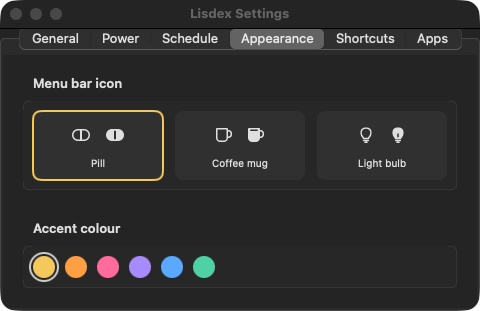
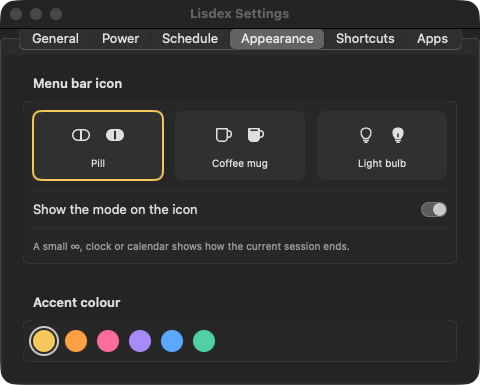
docs: mode badge records

diff --git a/.context/status/current.md b/.context/status/current.md
@@ -4,6 +4,7 @@ _Last updated 2026-11-24._
 
 ## Done
 
+- 2026-11-24 **Phase 11.1 Mode badge** (branch `feat/mode-badge`): Settings → Appearance → "Show the mode on the icon" (off by default) badges the menu bar icon with ∞ / clock / calendar for how the current session ends (approach A, ADR 0025, spec `specs/menu-bar-mode-badge.md`). Figma pill badges rebuilt on the shipped 20 × 18 pill; 18 SVGs exported to `assets/menubar/`. Core `MenuBarBadge.resolve`, `AppSettings.showsModeBadge`, `MenuBarAssetTests` (161 tests). Evidence `evidence/2026-11-24-mode-badge/`.
 - 2026-11-24 **Release prep 1.2.0** (branch `chore/release-1.2.0`; owner: Phases 8 + 9 ship together as 1.2.0): `scripts/e2e.sh` + `make e2e` + E2E workflow on `macos-latest` (links, timed session, kill -9 with both engines, schedule window, app trigger, settings persistence, all via `pmset`; 9/9 locally); manual checklist `runbooks/manual-test.md` for what CI can't do (jiggler, Shortcuts/Focus, clicks); README screenshots retaken (+ Schedule, Apps tabs; Power with Chat apps; per-day menu; light bulb) and feature rows for shortcuts / Option-click.
 - 2026-11-23 **Phase 8.3 Shortcuts, Focus filter and links** (owner said merge 2026-11-24 without a GUI test of actions/Focus; merged): `lisdex://` links in every build; App Intents actions + `SetFocusFilterIntent` when built with `CODESIGN_IDENTITY` (ad-hoc builds can't run App Intents — spike 2026-11-23, ADR 0022, spec `specs/shortcuts-focus.md`). Core `KeepAwakeCommand`, `FocusRules`, `Session.Origin.focus` (135 tests; review fixes: cold-launch links, Focus sync at launch, app/Focus hand-over, links never change saved settings). Evidence `evidence/2026-11-23-shortcuts-focus/`.
 - 2026-11-23 **Build without Xcode** (owner said merge 2026-11-24; merged): Command Line Tools builds failed since v1.0 (`@Entry` needs `libSwiftUIMacros`, which only Xcode ships) and on the macOS 27 SDK `@State` is a macro too. Replaced `@Entry` with an `EnvironmentKey`; `build-app.sh` falls back to the newest macOS 26 SDK when the plugin is missing (ADR 0023). Verified: CLT-only Homebrew-style build passes; Xcode build unchanged.
@@ -64,7 +65,7 @@ _Last updated 2026-11-24._
 | **8. v1.2 — triggers** (ships in 1.2.0) | Keep awake while app X runs (app picker, `NSWorkspace` launch/quit) — ✅ merged 2026-11-23; per-day schedule hours — ✅ merged 2026-11-23; Shortcuts / Focus filter / links — ✅ merged 2026-11-24. | — |
 | **9. mouse jiggler** (ships in 1.2.0, not 1.3) | Post a 0 px mouse move (ADR 0024; roadmap said 2 px and back) after an idle threshold (default 60 s), repeat every jiggle interval (default 20 s), stop on any real input incl. held keys/buttons. Runs **only while Keep Awake is holding**. Settings: idle threshold + jiggle interval sliders (no polling-interval setting: one timer computed from system idle time). Needs Accessibility (post-event) permission — new ADR; spike first: TCC grant across ad-hoc rebuilds / `brew upgrade`, and whether synthetic moves reset HID idle time. | Spiked 2026-11-24 (0 px moves work; ad-hoc rebuilds lose the grant). ✅ merged 2026-11-24 (ADR 0024, spec `mouse-jiggler.md`). Not run live yet: the owner merged before granting the permission. |
 | **10. v1.2.x — fixes from reviews** (proposed) | Jiggler: notice a revoked permission while running; the menu warning asks macOS first, then opens the pane; stop the 2 s permission recheck when Settings closes; don't restart the jiggler on every slider step. Focus/Shortcuts: filter switch defaults to on; a Focus ending that launches Lisdex doesn't trigger Activate on launch; Turn On rejects minutes ≤ 0 and its summary shows minutes as optional; links reject odd forms (`minutes=090`, extra parameters); ignored links logged privately. Schedule: Settings… opens on the tab already shown; one bad day in saved settings drops only that day; the menu summary fits on one line. Build: a failed App Intents metadata step leaves no half-written files; no hard-coded macOS 14 / host architecture. | Each with a test (Core) or a manual check; `make e2e` green. |
-| **11. v1.3 — features** (proposed, owner to pick) | Answer the open questions below (app trigger while a schedule waits; "armed" icon). Several windows per day. Closed-lid mode on power. Keep awake while a download or CPU-heavy work runs. | Owner picks the scope. |
+| **11. v1.3 — features** (proposed, owner to pick) | Mode badge on the menu bar icon (owner, Figma 33:1825) — built 2026-11-24, ADR 0025. Answer the open questions below (app trigger while a schedule waits; "armed" icon). Several windows per day. Closed-lid mode on power. Keep awake while a download or CPU-heavy work runs. | Owner picks the scope. |
 
 ## Next
 

diff --git a/.context/decisions/0025-mode-badge.md b/.context/decisions/0025-mode-badge.md
@@ -1,0 +1,37 @@
+# ADR 0025 — Mode badge on the menu bar icon: static glyphs, badge = how the session ends
+
+- **Status:** Accepted (owner approved spec `menu-bar-mode-badge.md`, 2026-11-24)
+- **Date:** 2026-11-24
+
+## Context
+
+The owner drew badged menu bar icons in Figma (file `iOdc61NkCgOdETvPC2vnn8`, frame 33:1825,
+component set 33:1492): pill, coffee mug and light bulb with an ∞, clock or calendar badge, in
+the outlined and filled states. The badge is cut out of the base artwork with a 0.75 pt moat, so
+it adapts to light, dark and highlighted menu bars. Many sessions don't follow the selected mode
+(Option-click quick menu, `lisdex://on?minutes=`, Shortcuts, app and Focus sessions).
+
+## Decision
+
+- Optional: Settings → Appearance → "Show the mode on the icon", off by default
+  (`AppSettings.showsModeBadge`; settings without the key read as off).
+- The badge shows **how the current session ends** (approach A): a running session's badge comes
+  from the session (app/Focus and until-stopped links → ∞, a link/action with minutes → clock,
+  otherwise the selected mode); while off, the selected mode. `MenuBarBadge.resolve` (Core, tested).
+- 18 static template glyphs in `assets/menubar/<variant>-<badge>-<state>.svg`, exported from the
+  component set and rendered by `make icons` (ADR 0003). The pill keeps the shipped 20 × 18 pt
+  artwork in every variant (Figma updated 2026-11-24), so turning badges on never changes the
+  icon's width; mug and bulb stay 18 × 18.
+- The menu's icon tile and the Settings icon picker stay unbadged; the jiggler never changes the
+  icon. VoiceOver: "Lisdex — Keep Awake on, for a duration".
+
+## Rejected
+
+- Drawing the badge over the base icon at runtime: the moat is cut out of the base, and ADR 0003
+  keeps menu bar art in SVG sources.
+- Badge = selected mode always (approach B): a 15-minute quick-menu session would show ∞.
+
+## Consequences
+
+New badges or icon variants need SVGs for every state; `MenuBarAssetTests` fails if one is
+missing, if a badged canvas differs from the plain one, or if art isn't black + alpha.

diff --git a/README.md b/README.md
@@ -31,7 +31,7 @@ Lisdex does one thing: stop your Mac from going to sleep. It's small enough to r
 
 | | |
 | --- | --- |
-| <img src="assets/menubar/pill-inactive@3x.png" height="18" alt=""> → <img src="assets/menubar/pill-active@3x.png" height="18" alt=""> | **Menu bar only.** No Dock icon. A capsule pill, outlined when inactive and filled when active. Prefer a coffee mug or a light bulb? It's one setting away. |
+| <img src="assets/menubar/pill-inactive@3x.png" height="18" alt=""> → <img src="assets/menubar/pill-active@3x.png" height="18" alt=""> | **Menu bar only.** No Dock icon. A capsule pill, outlined when inactive and filled when active. Prefer a coffee mug or a light bulb? It's one setting away, and an optional badge (∞, clock or calendar) shows how the current session ends. |
 | ∞ | **Indefinitely.** Stay awake until you turn it off. |
 | ◷ | **For a duration.** 15 min, 30 min, 1 h, 2 h or a custom time. |
 | ▦ | **On a schedule.** Choose days and hours, e.g. weekdays 09:00–18:00 with a short Friday. |
@@ -56,7 +56,7 @@ Lisdex does one thing: stop your Mac from going to sleep. It's small enough to r
 </p>
 <p align="center">
   <img src="assets/screenshots/settings-apps.png" width="48%" alt="Settings, Apps tab: Xcode and Visual Studio Code keep the Mac awake while open">
-  <img src="assets/screenshots/settings-appearance.png" width="48%" alt="Settings, Appearance tab: pill, coffee mug or light bulb menu bar icon and accent colours">
+  <img src="assets/screenshots/settings-appearance.png" width="48%" alt="Settings, Appearance tab: pill, coffee mug or light bulb menu bar icon, the mode badge switch and accent colours">
 </p>
 
 ### How it keeps your Mac awake

diff --git a/.context/evidence/2026-11-24-mode-badge/notes.md b/.context/evidence/2026-11-24-mode-badge/notes.md
@@ -1,0 +1,27 @@
+# Mode badge — verification, 2026-11-24
+
+- `swift test`: 161 tests in 27 suites pass (new: `MenuBarBadge`, `Menu bar assets`, badged
+  `MenuBarIcon` names/labels, `AppSettings` mode badge default / round-trip / 1.2 settings).
+- `make e2e`: 9/9.
+- Figma: pill badge variants rebuilt on 20 × 18 from the shipped pill; SVGs exported with the
+  plugin `exportAsync` (the REST export adds background rectangles). Contact sheet of all 24
+  glyphs checked by eye.
+- Status item, by `log stream` of the debug line "Menu bar icon <resource>" (status-item windows
+  can't be captured with `screencapture -l`), badge switch on:
+
+| Scenario | Icon |
+| --- | --- |
+| off, mode Duration | `pill-duration-inactive` |
+| on (Duration) | `pill-duration-active` |
+| `lisdex://on?until=stopped` | `pill-indefinitely-active` |
+| mug, mode Indefinitely, `on?minutes=90` | `mug-duration-active` |
+| mug off, Indefinitely | `mug-indefinitely-inactive` |
+| bulb off, Schedule | `bulb-schedule-inactive` |
+| TextEdit (listed app) opens | `bulb-indefinitely-active` |
+| TextEdit quits | `bulb-schedule-inactive` |
+| `on`, schedule waiting outside its window | `bulb-schedule-inactive` |
+| 1.2 settings (no key), on | `pill-active` |
+
+- Settings → Appearance: switch + caption under the icon picker (screenshot in
+  `assets/screenshots/settings-appearance.png`).
+- Owner to check: the icons in light and dark menu bars.

diff --git a/.context/specs/lisdex-v1.md b/.context/specs/lisdex-v1.md
@@ -31,7 +31,7 @@ The toggle click (right-click by default) in **For a Duration** mode restarts th
 
 - Inactive = outlined, active = filled with the detail knocked out (`assets/menubar/`, ADR 0015).
 - Rendered as `NSImage` template (`isTemplate = true`), 18 × 18 pt, identical canvas for both states, so macOS tints it for light/dark/tinted menu bars.
-- **Pill** (capsule, 16 × 10 pt glyph) is the default and matches the app icon. **Coffee mug** (16 × 14 pt) and **Light bulb** (v1.1) are selectable in Settings → Appearance → Menu bar icon. The app icon is always the pill.
+- **Pill** (capsule, 16 × 10 pt glyph) is the default and matches the app icon. **Coffee mug** (16 × 14 pt) and **Light bulb** (v1.1) are selectable in Settings → Appearance → Menu bar icon. An optional mode badge (∞ / clock / calendar, how the current session ends; off by default) is in the same section (ADR 0025, spec `menu-bar-mode-badge.md`). The app icon is always the pill.
 - Accessibility label: "Lisdex — Keep Awake on/off".
 - "Armed but idle" (schedule mode on, outside a window): inactive icon (v1). A dedicated third glyph is an open question.
 

diff --git a/CHANGELOG.md b/CHANGELOG.md
@@ -7,6 +7,11 @@ and this project adheres to [Semantic Versioning](https://semver.org/spec/v2.0.0
 
 ## [Unreleased]
 
+### Added
+
+- Settings → Appearance → Show the mode on the icon: a small ∞, clock or calendar on the menu bar
+  icon shows how the current session ends. Off by default.
+
 ## [1.2.0] - 2026-11-24
 
 ### Added
